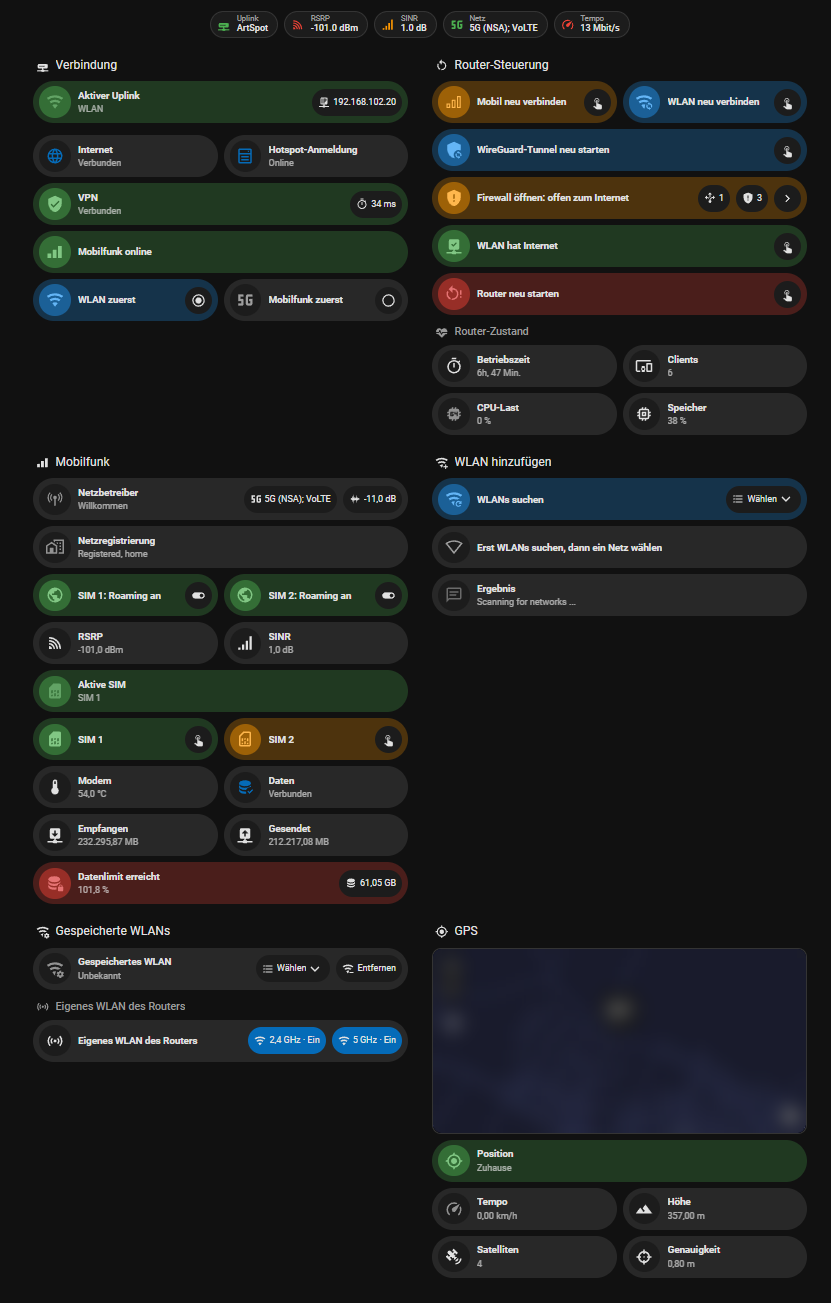
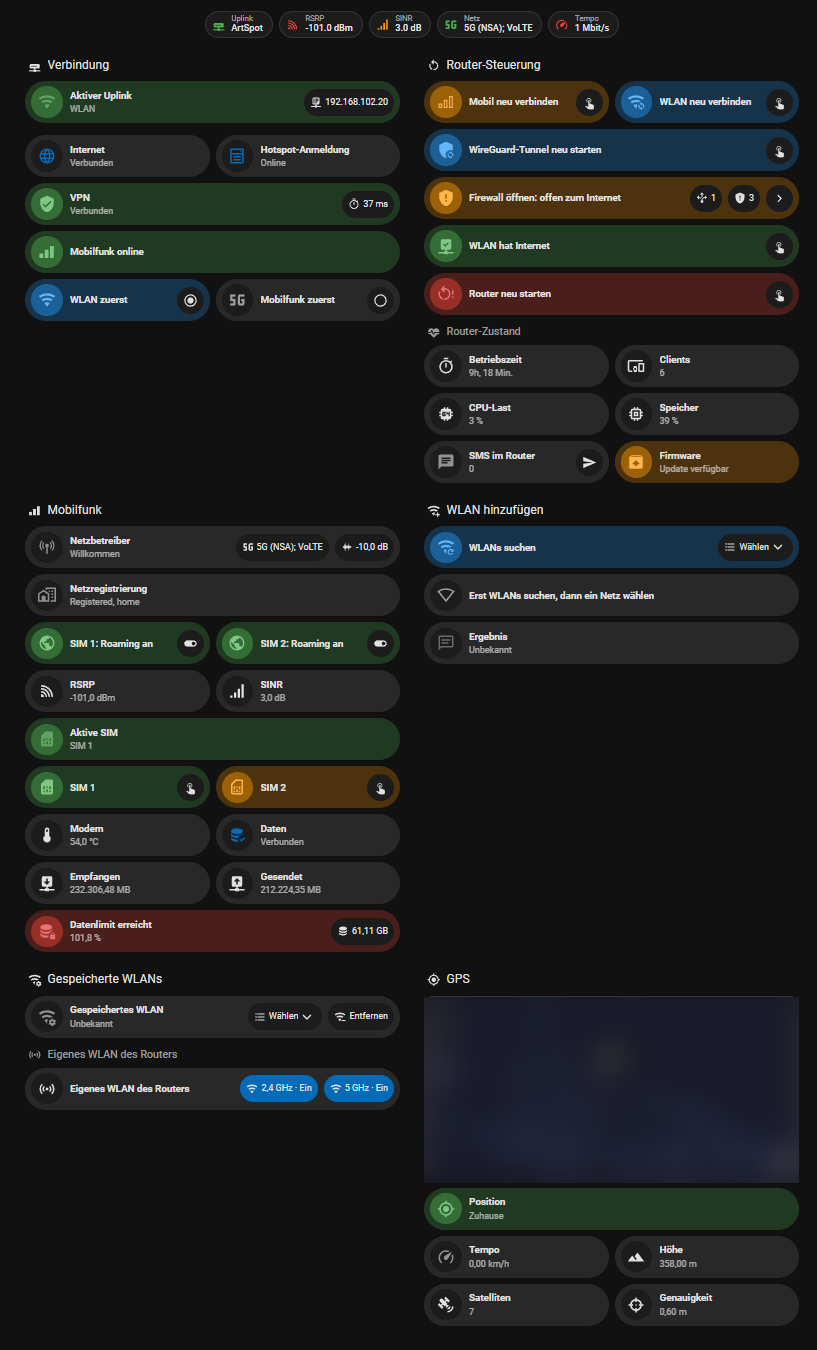
Docs: screenshots of the SMS and firmware pop-ups, updated dashboard picture
The map in the dashboard picture is blurred.

diff --git a/README.md b/README.md
@@ -15,7 +15,7 @@ It grew out of a camper and is useful wherever a Teltonika router runs
 RutOS 7. Developed on a RUTC50; other RutOS 7 routers use the same API, see
 [Supported routers](#supported-routers).
 
-[![The ready-made dashboard: uplink, router control, mobile data, Wi-Fi management and GPS](docs/images/dashboard-sample.png)](docs/dashboard.md)
+[![The ready-made dashboard: uplink, router control, mobile data, Wi-Fi management, GPS, and pop-ups for SMS and firmware](docs/images/dashboard-sample.png)](docs/dashboard.md)
 
 The ready-made [dashboard](docs/dashboard.md) (map blurred in this picture). It
 uses Bubble Card and Mushroom, for the dashboard only.
@@ -780,8 +780,12 @@ If the router has an SMS page, the integration creates the sensor **SMS
 messages** (how many messages the router holds), the entities to send an SMS
 from the dashboard and the service `send_sms`.
 
-**Sending from the dashboard.** Four entities work together, like the Wi-Fi
-management fields:
+**Sending from the dashboard.** In the [sample dashboard](docs/dashboard.md)
+the **SMS** pill opens this pop-up (the number is hidden in the picture):
+
+[![The Send SMS pop-up of the sample dashboard: number, text, result and the Send button](docs/images/send-sms.png)](docs/dashboard.md)
+
+Four entities work together, like the Wi-Fi management fields:
 
 | Entity | What it does |
 |---|---|
@@ -846,7 +850,11 @@ history. Only the event carries them, and events are not recorded either.
 The **Firmware** entity (update) tells you when the router has found a newer
 stable firmware at its update server. It does not install anything and has no
 Install button on purpose, so nobody starts a router restart by accident from
-the Home Assistant update list. Two buttons do the work, in two steps:
+the Home Assistant update list. Two buttons do the work, in two steps. In the
+[sample dashboard](docs/dashboard.md) the **Firmware** pill opens them as a
+pop-up:
+
+[![The Firmware pop-up of the sample dashboard: update state, status, download and install buttons](docs/images/firmware-update.png)](docs/dashboard.md)
 
 | Entity | What it does |
 |---|---|

diff --git a/docs/dashboard.md b/docs/dashboard.md
@@ -207,9 +207,9 @@ list. Fix that entity and save again.
   takes no room until it is opened. If you prefer a page of its own, use
   [dashboards/teltonika-sms.yaml](../dashboards/teltonika-sms.yaml) and let the
   pill navigate to it as the firewall pill does. Tapping the **Firmware** pill
-  opens a **Firmware** pop-up with the update state, the download state and the
+  opens a **Firmware** pop-up with the update state, the status and the
   two buttons **Download firmware** and **Install firmware**, both with a
-  confirmation (version 0.16.0 or newer); the install entity is disabled by
+  confirmation (version 0.17.0 or newer); the install entity is disabled by
   default, see [Firmware update](../README.md#firmware-update). The hotspot button changes with the
   state: it starts
   `teltonika_control.portal_mode`, shows that it waits, and reports when
@@ -247,6 +247,14 @@ list. Fix that entity and save again.
   and accuracy, on routers with GPS.
 
 Every action that interrupts the connection asks for confirmation first.
+
+### Pop-ups: SMS and firmware
+
+Both pop-ups open from a pill. The number in the SMS picture is hidden.
+
+![The Send SMS pop-up](images/send-sms.png)
+
+![The Firmware pop-up](images/firmware-update.png)
 
 ### What the small buttons on the right mean
 
